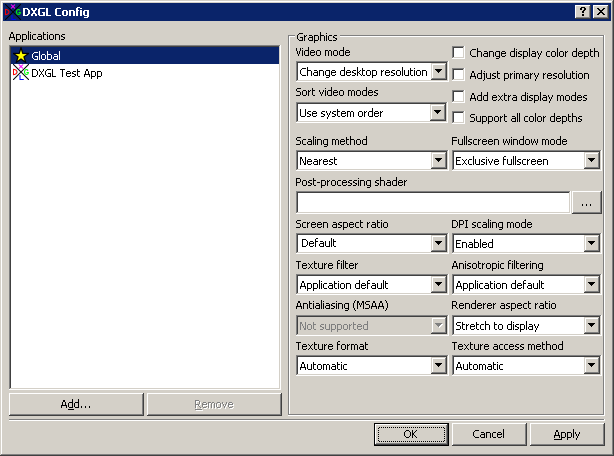
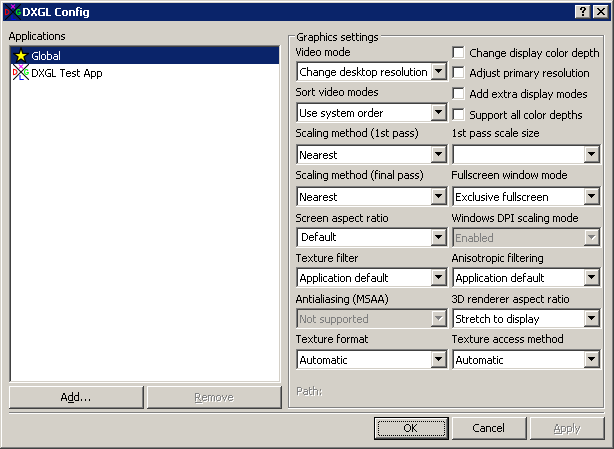
Update help file. Minor tweaks to DXGL Config.
git-svn-id: https://www.williamfeely.info/svn/dxgl@700 8a90861a-4eca-46d5-b744-240ff16d0c4d

Changed region(s): [[0.4642, 0.0624, 0.9902, 0.8107], [0.0, 0.8419, 0.9902, 0.9978], [0.0, 0.0, 0.4642, 0.1871]]

diff --git a/Help/configuration.htm b/Help/configuration.htm
@@ -7,19 +7,21 @@
   <body>
     <img src="dxglcfg.png" alt="DXGL Config" usemap="#cfgmap" class="noborder" />
     <map name="cfgmap">
-      <area shape="rect" coords="9,31,281,389" alt="Applications" href="#applist" />
-      <area shape="rect" coords="9,393,144,416" alt="Add..." href="#add" />
-      <area shape="rect" coords="147,393,282,416" alt="Remove" href="#remove" />
+      <area shape="rect" coords="9,31,281,383" alt="Applications" href="#applist" />
+      <area shape="rect" coords="9,386,144,409" alt="Add..." href="#add" />
+      <area shape="rect" coords="147,386,282,409" alt="Remove" href="#remove" />
       <area shape="rect" coords="296,47,449,82" alt="Video mode" href="#vidmode" />
       <area shape="rect" coords="296,87,449,123" alt="Sort video modes" href="#sortmodes" />
-      <area shape="rect" coords="452,46,564,59" alt="Change color depth" href="#changedepth" />
-      <area shape="rect" coords="452,68,588,81" alt="Adjust primary resolution" href="#adjustprimary" />
-      <area shape="rect" coords="452,90,588,103" alt="Add Extra Display Modes" href="#extramodes" />
-      <area shape="rect" coords="452,111,586,124" alt="Support All Color Depths" href="#alldepths" />
-      <area shape="rect" coords="296,136,448,170" alt="Scaling method" href="#scaler" />
-      <area shape="rect" coords="296,233,448,253" alt="Screen aspect ratio" href="#aspect" />
-      <area shape="rect" coords="452,233,601,253" alt="DPI scaling mode" href="#dpiscale" />
-      <area shape="rect" coords="452,150,601,170" alt="Fullscreen window mode" href="#fullmode" />
+      <area shape="rect" coords="452,46,599,59" alt="Change display color depth" href="#changedepth" />
+      <area shape="rect" coords="452,66,589,79" alt="Adjust primary resolution" href="#adjustprimary" />
+      <area shape="rect" coords="452,87,587,100" alt="Add Extra Display Modes" href="#extramodes" />
+      <area shape="rect" coords="452,108,582,121" alt="Support All Color Depths" href="#alldepths" />
+      <area shape="rect" coords="296,130,449,167" alt="Scaling method (first pass)" href="#scalerfirst" />
+      <area shape="rect" coords="452,130,602,167" alt="1st pass scale size" href="#scalerfirstsize" />
+      <area shape="rect" coords="296,170,449,207" alt="Scaling method (final pass)" href="#scalerfinal" />
+      <area shape="rect" coords="296,210,449,248" alt="Screen aspect ratio" href="#aspect" />
+      <area shape="rect" coords="452,210,602,248" alt="DPI scaling mode" href="#dpiscale" />
+      <area shape="rect" coords="452,170,602,207" alt="Fullscreen window mode" href="#fullmode" />
     </map>
     <h1>Configuration</h1>
       Configuration for DXGL can be accessed by opening the &quot;DXGL Config&quot; program in the DXGL program group.  Configuration is as follows:
@@ -67,18 +69,28 @@
     If checked, adds additional, mostly low resolution, display modes to the list generated by IDirectDraw::EnumDisplayModes.  Only works if 
     &quot;Video mode&quot; is not set to &quot;Change desktop resolution.&quot;
     <h2><a name="alldepths" />Support All Color Depths</h2>
-    If checked, adds 8, 15, 16, 24, and 32-bit color modes if not listed by the system.  Under Windows 8 or above, this will be enabled by default.
-    <h2><a name="scaler" />Scaling method</h2>
-    Selects the filter to use for scaling the output when the resolution is different than the desktop resolution, 
+    If checked, adds 8, 16, 24, and 32-bit color modes if not listed by the system.  Under Windows 8 or above, this will be enabled by default.
+    <h2><a name="scalerfirst" />Scaling method (1st pass)</h2>
+    Scaling method for an optional image scaling pass.  This can be used to create a pixelated effect while still preserving the ability to have filtered display scaling.
+    The following methods are available:
+    <h3>Nearest</h3>
+    Uses nearest-neighbor scaling.
+    <h3>Bilinear</h3>
+    Uses bilinear scaling.  8-bit display modes will always use nearest scaling for this pass.
+    <h2><a name="scalerfirstsize" />1st pass scale size</h2>
+    Selects the amount to scale the display on the first pass.  There is an Auto preset as well as presets for fixed 1x, 2x1, 2x, 3x, and 4x ratios.  In addition, a ratio can manually be set anywhere from 0.25x0.25 to 16x16.  The Auto preset will automatically double pixels horizontally if the horizontal resolution is 400 pixels or less, and will double pixels vertically if the vertical resolution is 300 or less.
+    In addition, if Video mode is set to Change desktop resolution and Add extra display modes is enabled, a subset of low resolution pixel doubled modes will be added.
+    <h2><a name="scalerfinal" />Scaling method (final pass)</h2>
+    Selects the filter to use for scaling the output when the resolution is different than the desktop resolution, or when the optional 1st pass scaling is in effect, the scaled resolution is different from the desktop resolution, 
     as well as for blitting operations.  The following methods are available:
     <h3>Nearest</h3>
     Uses nearest-neighbor scaling.
     <h3>Bilinear</h3>
-    Uses bilinear scaling.  Reduces jagged edges, but may create visual artifacts in some applications.  Does not work with 8-bit color except for the full-screen scaling modes.
+    Uses bilinear scaling.  Reduces jagged edges, but may create visual artifacts in some applications.  Does not work with 8-bit color except for the full-screen scaling modes.  Blitting operations are always nearest mode in 8-bit.
     <h2><a name="aspect" />Screen aspect ratio</h2>
     Overrides the aspect ratio for "Aspect corrected stretch" and "Scale if mode not found".  Enter as x:y or as a floating point ratio, for example 4:3 or 1.333333, or select a preset from the dropdown list.  Default uses a square pixel ratio.
     <h2><a name="dpiscale" />DPI scaling mode</h2>
-    Fixes errors caused by Windows High DPI scaling in Windows Vista and greater.
+    Fixes errors caused by Windows High DPI scaling in Windows Vista and greater.  This option is always set to Enabled on older operating systems, as these operating systems apply high DPI modes to all applications.
     <h3>Disabled</h3>
     Disables the DPI scaling fix, unless specified by the program.
     <h3>Enabled</h3>

diff --git a/dxglcfg2/dxglcfg2.c b/dxglcfg2/dxglcfg2.c
@@ -820,7 +820,7 @@ LRESULT CALLBACK DXGLCfgCallback(HWND hWnd, UINT Msg, WPARAM wParam, LPARAM lPar
 		SendDlgItemMessage(hTabs[0], IDC_PRESCALESIZE, CB_ADDSTRING, 0, (LPARAM)buffer);
 		_tcscpy(buffer, _T("1x"));
 		SendDlgItemMessage(hTabs[0], IDC_PRESCALESIZE, CB_ADDSTRING, 0, (LPARAM)buffer);
-		_tcscpy(buffer, _T("1x2"));
+		_tcscpy(buffer, _T("2x1"));
 		SendDlgItemMessage(hTabs[0], IDC_PRESCALESIZE, CB_ADDSTRING, 0, (LPARAM)buffer);
 		_tcscpy(buffer, _T("2x"));
 		SendDlgItemMessage(hTabs[0], IDC_PRESCALESIZE, CB_ADDSTRING, 0, (LPARAM)buffer);

diff --git a/dxglcfg/dxglcfg.c b/dxglcfg/dxglcfg.c
@@ -588,7 +588,7 @@ LRESULT CALLBACK DXGLCfgCallback(HWND hWnd, UINT Msg, WPARAM wParam, LPARAM lPar
 		SendDlgItemMessage(hWnd, IDC_PRESCALESIZE, CB_ADDSTRING, 0, (LPARAM)buffer);
 		_tcscpy(buffer, _T("1x"));
 		SendDlgItemMessage(hWnd, IDC_PRESCALESIZE, CB_ADDSTRING, 0, (LPARAM)buffer);
-		_tcscpy(buffer, _T("1x2"));
+		_tcscpy(buffer, _T("2x1"));
 		SendDlgItemMessage(hWnd, IDC_PRESCALESIZE, CB_ADDSTRING, 0, (LPARAM)buffer);
 		_tcscpy(buffer, _T("2x"));
 		SendDlgItemMessage(hWnd, IDC_PRESCALESIZE, CB_ADDSTRING, 0, (LPARAM)buffer);
